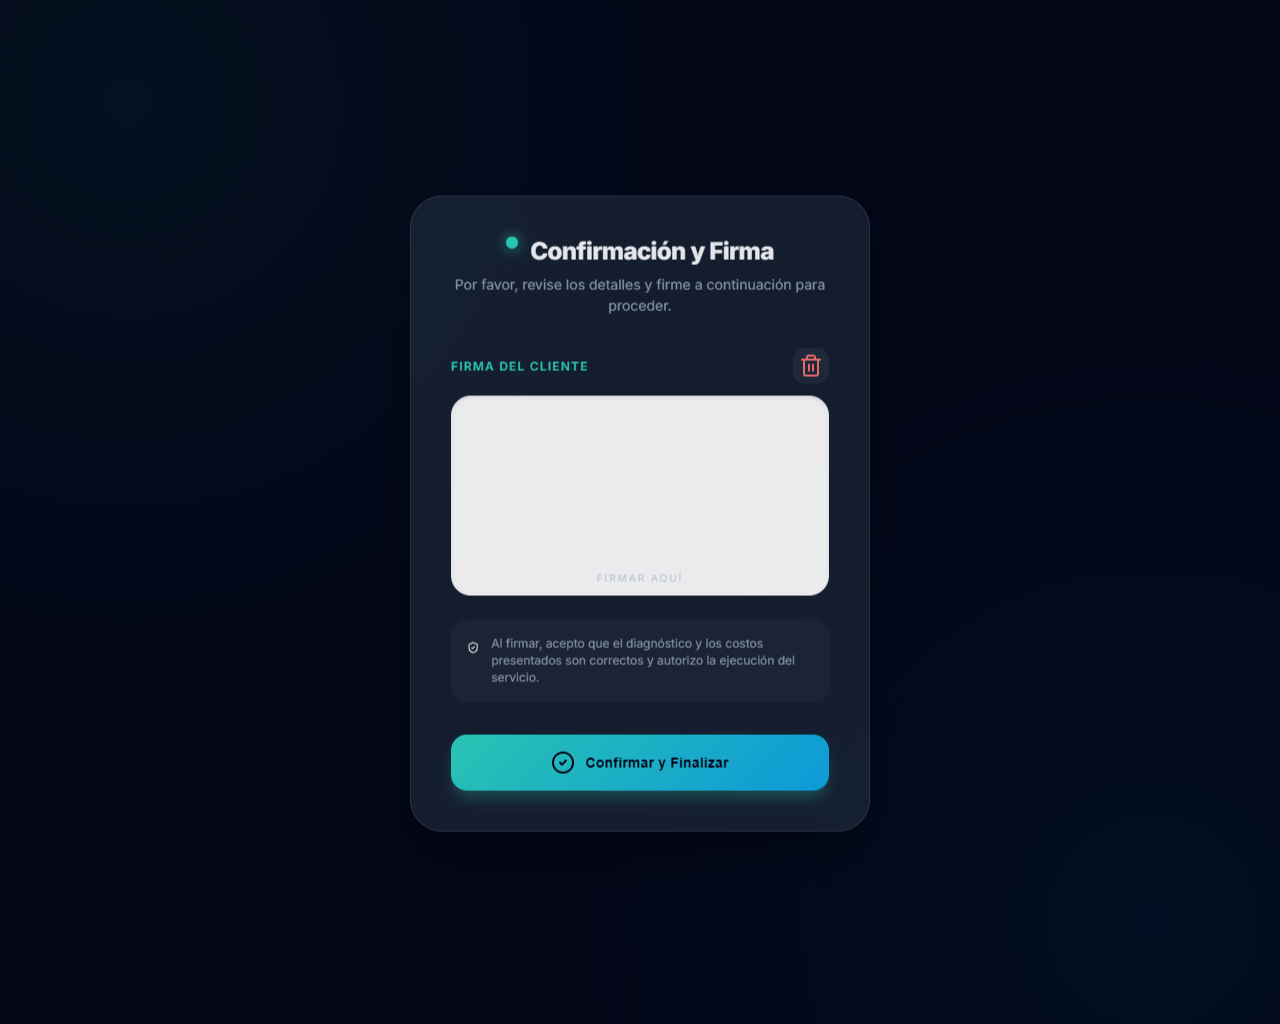
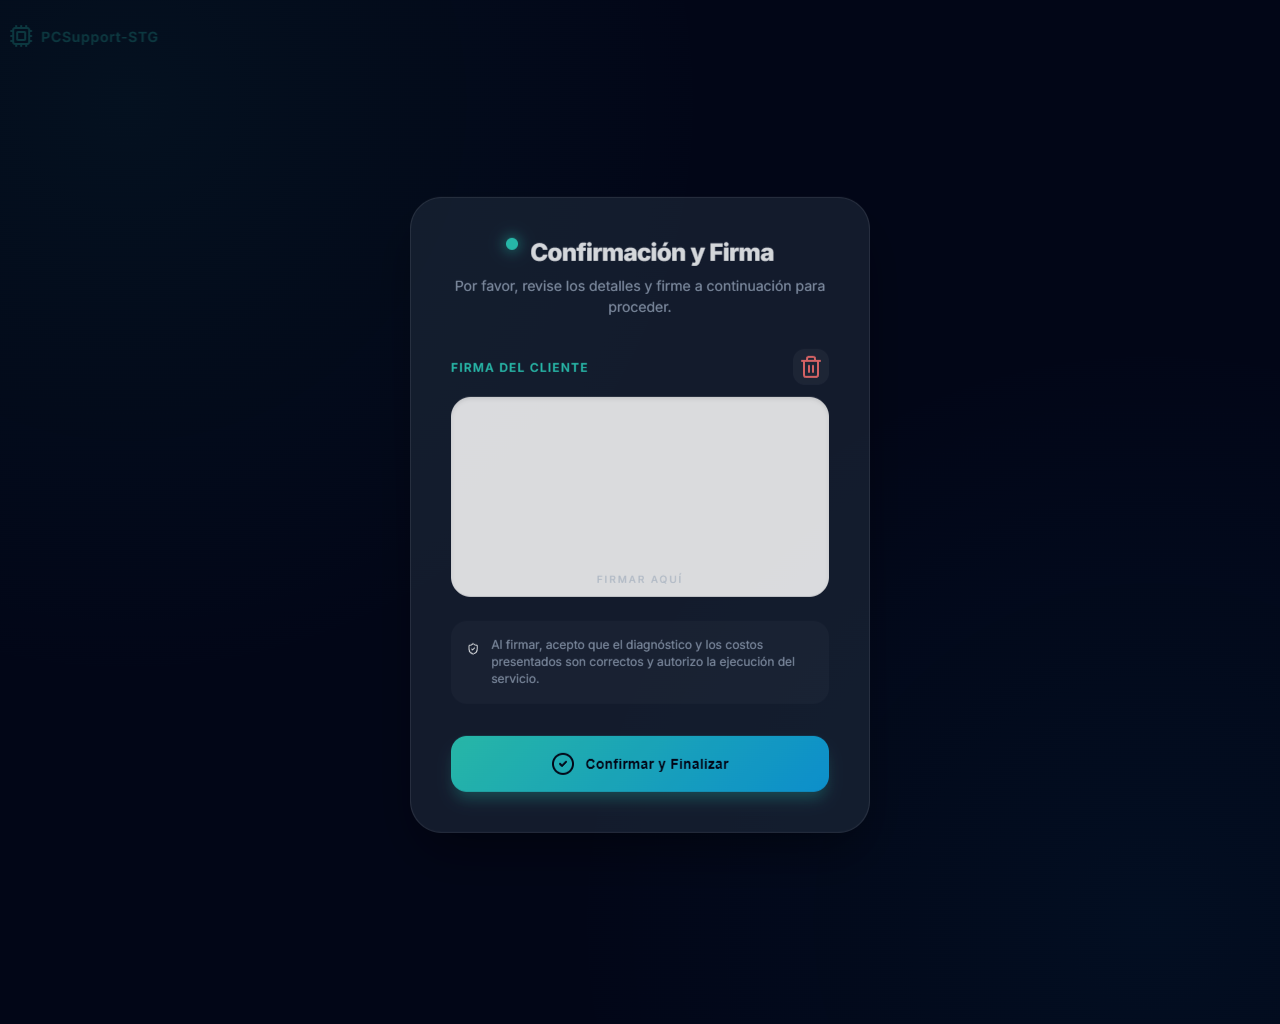
feat: Add PCSupport-STG author badge to UI and update screenshot

diff --git a/style.css b/style.css
@@ -29,6 +29,33 @@ body {
         radial-gradient(circle at 90% 90%, rgba(14, 165, 233, 0.05) 0%, transparent 40%);
 }
 
+/* Identificador de Autor */
+.author-badge {
+    position: absolute;
+    top: 24px;
+    left: 24px;
+    display: flex;
+    align-items: center;
+    gap: 8px;
+    color: var(--brand-teal);
+    font-size: 0.875rem;
+    font-weight: 600;
+    letter-spacing: 0.05em;
+    opacity: 0.8;
+    animation: fadeInAuthor 1s ease-out;
+    z-index: 10;
+}
+
+.author-badge i {
+    width: 20px;
+    height: 20px;
+}
+
+@keyframes fadeInAuthor {
+    from { opacity: 0; transform: translateX(-20px); }
+    to { opacity: 0.8; transform: translateX(0); }
+}
+
 .confirm-container {
     width: 100%;
     max-width: 500px;

diff --git a/index.html b/index.html
@@ -11,6 +11,12 @@
     <script src="https://unpkg.com/lucide@latest"></script>
 </head>
 <body>
+    <!-- Identificador de Autor -->
+    <div class="author-badge">
+        <i data-lucide="cpu"></i>
+        <span>PCSupport-STG</span>
+    </div>
+
     <div class="confirm-container">
         <div class="glass-card">
             <header>